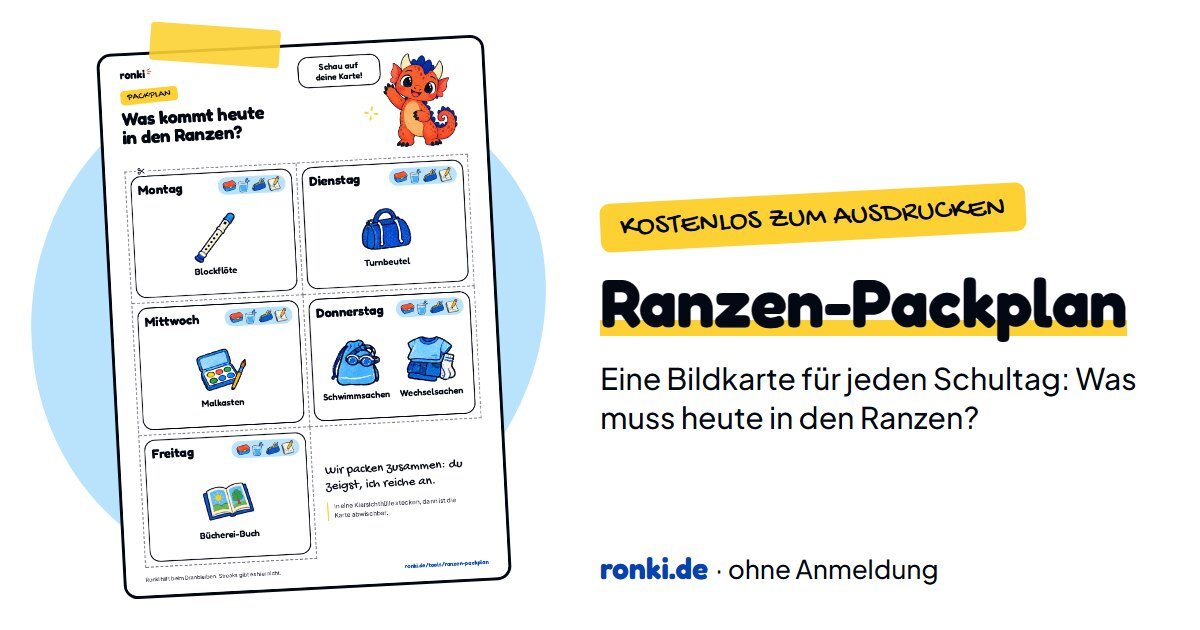
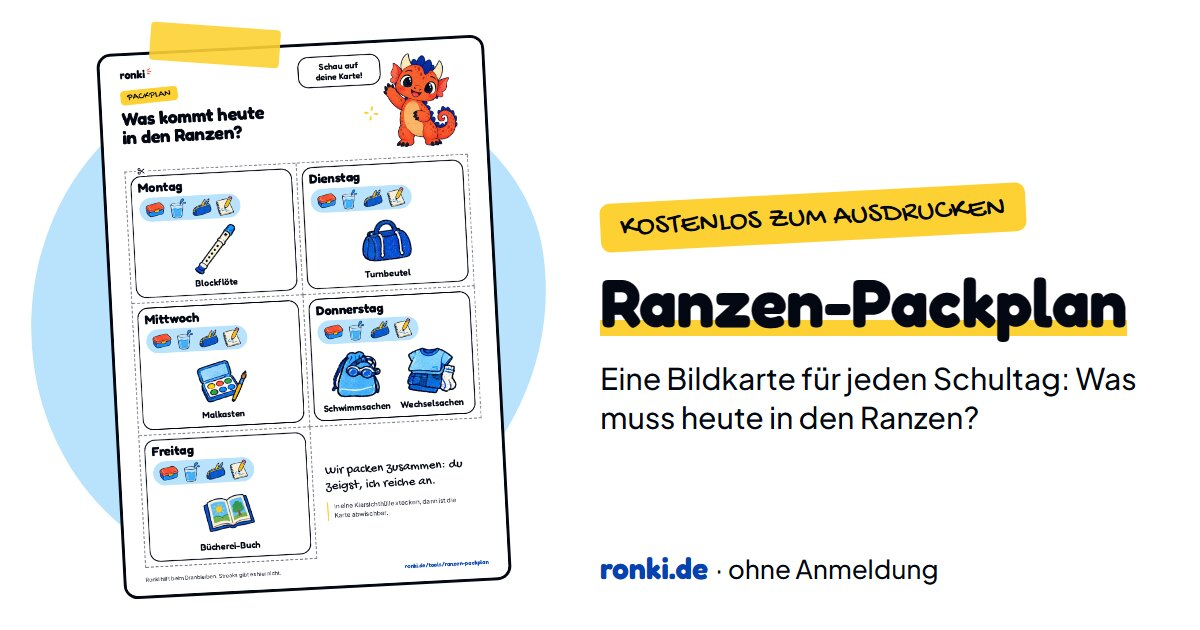
Packplan: daily items get their own bigger row on days with one row of extras
Astra rep 6 round 2 middle on PP-02: the daily strip moves under the
weekday with 42 px pictures when the extras fit in one row (up to four);
heavier days keep the compact strip so the worst case still fits one A4
page. Copy: draw the free item 'vor dem ersten Packen'; article step 1
and 3 say what the setup does, not what it will achieve.

Changed region(s): [[0.1233, 0.4524, 0.4008, 0.6635], [0.0925, 0.2413, 0.4008, 0.4524], [0.1233, 0.6937, 0.2467, 0.8746]]

diff --git a/website/src/pages/ratgeber/RanzenPackenErsteKlasse.tsx b/website/src/pages/ratgeber/RanzenPackenErsteKlasse.tsx
@@ -76,7 +76,7 @@ export default function RatgeberRanzenPackenErsteKlasse() {
           <p>
             Der Ranzen steht jeden Abend am selben Ort, zum Beispiel im Flur
             neben der Tür. Turnbeutel und Schwimmtasche hängen gleich daneben.
-            Dann wird morgens weniger gesucht und mehr eingepackt.
+            Dann liegt morgens alles an einem Ort.
           </p>
         </StepCard>
         <StepCard n={2} title="Eine Karte pro Schultag">
@@ -91,7 +91,7 @@ export default function RatgeberRanzenPackenErsteKlasse() {
           <p>
             Welche Karte dran ist, entscheidest du. Leg abends die Karte für
             morgen an den Startplatz. Packt ihr erst morgens, nimm die Karte
-            für heute. Dann schaut dein Kind auf die Bilder statt zu dir.
+            für heute. So kann dein Kind auf die Bilder schauen statt zu dir.
           </p>
         </StepCard>
         <StepCard n={4} title="Ein fester Nachfüll-Tag">
@@ -164,7 +164,7 @@ export default function RatgeberRanzenPackenErsteKlasse() {
         ist am Abend die Frage „Was ergänzen wir auf der Karte?“. Vielleicht
         fehlt dort einfach ein Bild. Was nicht in der Auswahl steht, trägst du
         bei „Noch etwas?“ ein. Dafür bekommt die Karte ein leeres Feld, in das
-        dein Kind selbst malt, was mit muss.
+        dein Kind vor dem ersten Packen selbst malt, was mit muss.
       </p>
 
       <h2>Was du heute tun kannst</h2>

diff --git a/website/src/components/ranzen-packplan/PackplanSheet.tsx b/website/src/components/ranzen-packplan/PackplanSheet.tsx
@@ -92,11 +92,16 @@ function DayCard({ plan, day, label }: { plan: PackPlan; day: WeekdayId; label: 
   const onlyDaily = count === 0 && daily.length > 0;
   const main = onlyDaily ? daily : extras;
   const { size, cols } = layoutFor(onlyDaily ? daily.length : count);
+  // With one row of extras there is room to give the daily items their own,
+  // bigger row under the weekday, so one big Turnbeutel does not outrank
+  // four things that are just as needed (Astra PP-02, round 2). Heavier days
+  // keep the compact strip beside the weekday so everything still fits.
+  const dailyRow = !onlyDaily && count <= 4;
 
   return (
     <li className="pp-card" data-day={day}>
       <div className="pp-card-in">
-        <div className="pp-card-top">
+        <div className="pp-card-top" data-daily-row={dailyRow ? '' : undefined}>
           <h3 className="pp-day">{label}</h3>
           {daily.length > 0 && !onlyDaily && (
             <ul className="pp-daily" data-daily aria-label="Jeden Tag dabei">

diff --git a/website/tests/RanzenPackplan.test.tsx b/website/tests/RanzenPackplan.test.tsx
@@ -119,6 +119,14 @@ describe('Packplan sheet', () => {
     }
   });
 
+  it('gives the daily items their own bigger row when the extras fit in one row', () => {
+    const { container } = render(<PackplanSheet plan={examplePlan()} />);
+    expect(card(container, 'di').querySelector('[data-daily-row]')).not.toBeNull();
+    expect(card(container, 'do').querySelector('[data-daily-row]')).not.toBeNull();
+    const heavy = render(<PackplanSheet plan={worstCasePlan()} />).container;
+    for (const c of cards(heavy)) expect(c.querySelector('[data-daily-row]')).toBeNull();
+  });
+
   it('says "Heute nichts dazu" only on a day that carries nothing at all', () => {
     let plan = defaultPlan();
     for (const id of plan.daily) plan = toggleDaily(plan, id);

diff --git a/website/src/pages/tools/RanzenPackplan.tsx b/website/src/pages/tools/RanzenPackplan.tsx
@@ -248,7 +248,7 @@ export default function RanzenPackplan() {
                 </div>
                 <p className="mt-4 text-sm text-ink/70 leading-relaxed">
                   Für alles bei „Noch etwas?“ bleibt auf der Karte ein leeres Feld. Da malt dein
-                  Kind selbst hinein, was es ist. Trag dort nur Sachen ein, keine Namen, Klassen
+                  Kind vor dem ersten Packen selbst hinein, was es ist. Trag dort nur Sachen ein, keine Namen, Klassen
                   oder Schulen: Der Text steht auch im Link.
                 </p>
               </Step>

diff --git a/website/src/components/ranzen-packplan/packplan-sheet.css b/website/src/components/ranzen-packplan/packplan-sheet.css
@@ -96,6 +96,21 @@
   width: 30px;
   height: 30px;
 }
+/* Days with one row of extras: the daily items get their own row under the
+ * weekday, with bigger pictures. */
+.pp-card-top[data-daily-row] {
+  flex-direction: column;
+  align-items: flex-start;
+  gap: 7px;
+}
+.pp-card-top[data-daily-row] .pp-daily {
+  gap: 6px;
+  padding: 4px 12px;
+}
+.pp-card-top[data-daily-row] .pp-daily .rs-pic {
+  width: 42px;
+  height: 42px;
+}
 .pp-sr {
   position: absolute;
   width: 1px;
